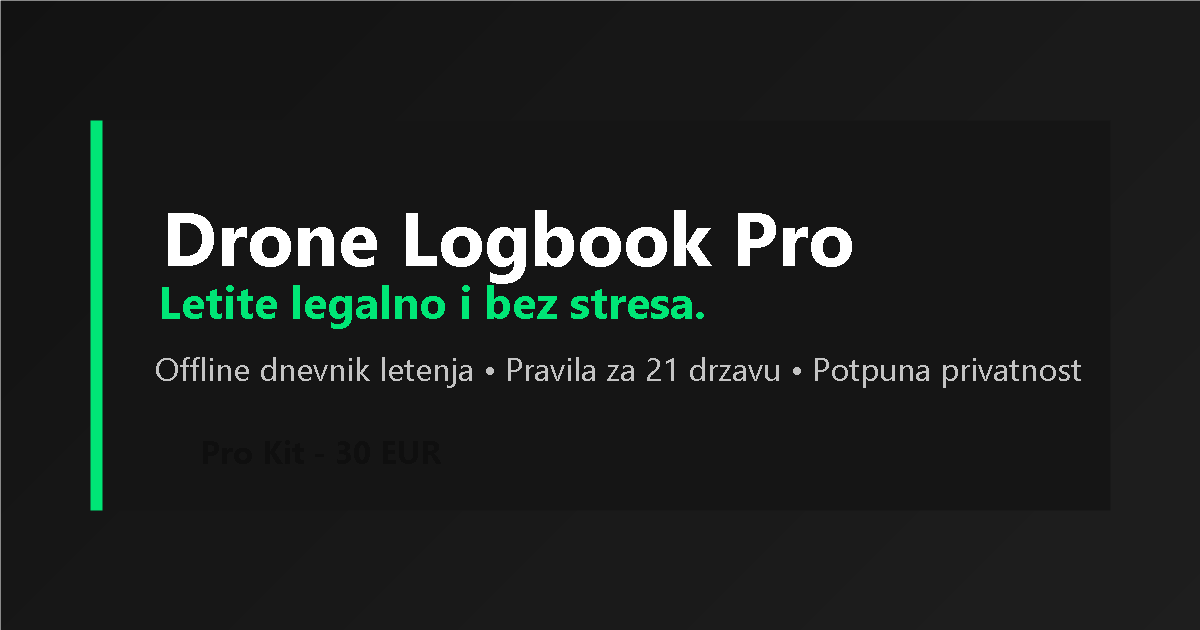
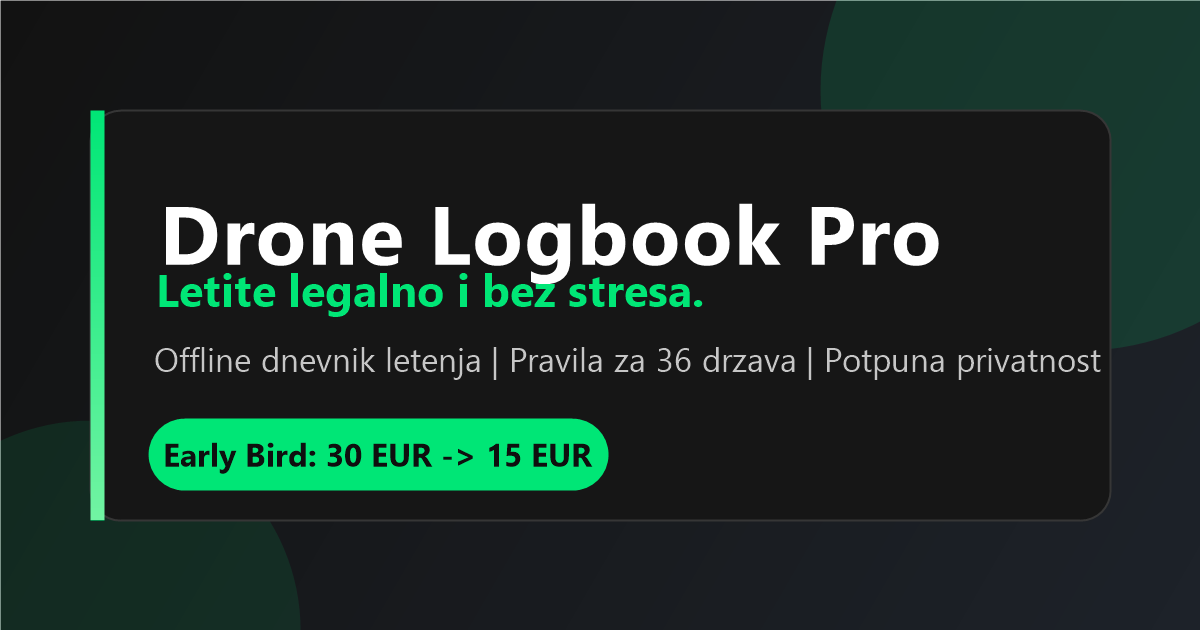
Polished landing page with 36 countries, gallery and early bird pricing

diff --git a/index.html b/index.html
@@ -3,7 +3,7 @@
 <head>
     <meta charset="UTF-8">
     <meta name="viewport" content="width=device-width, initial-scale=1.0">
-    <meta name="description" content="Drone Logbook Pro je osobni dnevnik letenja za pilote dronova: offline rad, pravila za 28 država i privatna pohrana na vlastitom Google Driveu.">
+    <meta name="description" content="Drone Logbook Pro je osobni dnevnik letenja za pilote dronova: offline rad, pravila za 36 država i privatna pohrana na vlastitom Google Driveu.">
     <meta name="robots" content="index, follow">
     <meta name="theme-color" content="#121212">
     <link rel="canonical" href="https://zrina1980-superuser.github.io/drone-logbook-pro/">
@@ -14,12 +14,23 @@
     <meta property="og:site_name" content="Drone Logbook Pro">
     <meta property="fb:app_id" content="1439374824024639">
     <meta property="og:title" content="Drone Logbook Pro | Tvoj osobni dnevnik letenja">
-    <meta property="og:description" content="Letite legalno i bez stresa. Offline dnevnik letenja, pravila za 28 država i puna kontrola podataka na vašem Google Driveu.">
+    <meta property="og:description" content="Letite legalno i bez stresa. Offline dnevnik letenja, pravila za 36 država i puna kontrola podataka na vašem Google Driveu.">
     <meta property="og:url" content="https://zrina1980-superuser.github.io/drone-logbook-pro/">
     <meta property="og:image" content="https://zrina1980-superuser.github.io/drone-logbook-pro/og-image.png">
+    <meta property="og:image:secure_url" content="https://zrina1980-superuser.github.io/drone-logbook-pro/og-image.png">
     <meta property="og:image:type" content="image/png">
     <meta property="og:image:width" content="1200">
     <meta property="og:image:height" content="630">
+    <meta property="og:image:alt" content="Drone Logbook Pro landing page preview">
+
+    <meta name="twitter:card" content="summary_large_image">
+    <meta name="twitter:title" content="Drone Logbook Pro | Tvoj osobni dnevnik letenja">
+    <meta name="twitter:description" content="Offline dnevnik letenja za pilote dronova s pravilima za 36 država.">
+    <meta name="twitter:image" content="https://zrina1980-superuser.github.io/drone-logbook-pro/og-image.png">
+    <meta name="twitter:image:alt" content="Drone Logbook Pro landing page preview">
+
+    <link rel="icon" type="image/svg+xml" href="favicon.svg">
+    <link rel="shortcut icon" type="image/svg+xml" href="favicon.svg">
 
     <script src="https://cdn.tailwindcss.com"></script>
     <script>
@@ -45,7 +56,7 @@
         </h1>
         <p class="text-lg md:text-xl text-gray-400 mb-10 max-w-2xl mx-auto">
             Prva i jedina aplikacija za domaće dronaše koja živi isključivo na vašem Google Driveu.
-            Bilježite letove i servise jednim klikom, radite u potpunosti offline i nosite zakone za 28 država u džepu!
+            Bilježite letove jednim klikom, radite u potpunosti offline i nosite zakone za čak 36 država u džepu!
         </p>
         <a href="#kupi" class="bg-primary text-black font-bold py-4 px-8 rounded-full text-lg hover:bg-green-500 transition duration-300 shadow-[0_0_15px_rgba(0,230,118,0.5)] inline-block">
             Preuzmi svoj Pro Kit (Early Bird Akcija)
@@ -53,14 +64,26 @@
     </header>
 
     <section class="container mx-auto px-6 py-10">
-        <h2 class="text-3xl font-bold text-center text-white mb-12">Zavirite u aplikaciju</h2>
-        <div class="grid grid-cols-2 md:grid-cols-3 gap-6 justify-items-center">
-            <img src="pocetni-sa-linkovima-na-dokumente.jpeg" alt="Početni zaslon i linkovi na dokumente" class="rounded-2xl border-2 border-gray-700 shadow-xl max-h-[450px] object-cover hover:border-primary transition">
-            <img src="unos-novog-leta.jpeg" alt="Unos novog leta" class="rounded-2xl border-2 border-gray-700 shadow-xl max-h-[450px] object-cover hover:border-primary transition">
-            <img src="log-svih-letova.jpeg" alt="Log svih letova" class="rounded-2xl border-2 border-gray-700 shadow-xl max-h-[450px] object-cover hover:border-primary transition">
-            <img src="unos-servisiranja.jpeg" alt="Unos servisiranja" class="rounded-2xl border-2 border-gray-700 shadow-xl max-h-[450px] object-cover hover:border-primary transition">
-            <img src="trazenje-pravila-drzava.jpeg" alt="Traženje pravila država" class="rounded-2xl border-2 border-gray-700 shadow-xl max-h-[450px] object-cover hover:border-primary transition">
-            <img src="prikaz-odabrane-drzave.jpeg" alt="Prikaz odabrane države" class="rounded-2xl border-2 border-gray-700 shadow-xl max-h-[450px] object-cover hover:border-primary transition">
+        <h2 class="text-3xl font-bold text-center text-white mb-8">Zavirite ispod haube</h2>
+        <div class="max-w-5xl mx-auto grid grid-cols-2 md:grid-cols-3 gap-3 md:gap-4">
+            <button type="button" data-full="pocetni-sa-linkovima-na-dokumente.jpeg" data-caption="Početni zaslon s dokumentima" class="group overflow-hidden rounded-xl border border-gray-700 hover:border-primary transition">
+                <img src="pocetni-sa-linkovima-na-dokumente.jpeg" alt="Početni zaslon s dokumentima" class="h-28 md:h-40 w-full object-cover group-hover:scale-[1.03] transition duration-300">
+            </button>
+            <button type="button" data-full="unos-novog-leta.jpeg" data-caption="Brzi unos novog leta" class="group overflow-hidden rounded-xl border border-gray-700 hover:border-primary transition">
+                <img src="unos-novog-leta.jpeg" alt="Brzi unos novog leta" class="h-28 md:h-40 w-full object-cover group-hover:scale-[1.03] transition duration-300">
+            </button>
+            <button type="button" data-full="log-svih-letova.jpeg" data-caption="Digitalni logbook svih letova" class="group overflow-hidden rounded-xl border border-gray-700 hover:border-primary transition">
+                <img src="log-svih-letova.jpeg" alt="Digitalni logbook svih letova" class="h-28 md:h-40 w-full object-cover group-hover:scale-[1.03] transition duration-300">
+            </button>
+            <button type="button" data-full="unos-servisiranja.jpeg" data-caption="Evidencija servisa" class="group overflow-hidden rounded-xl border border-gray-700 hover:border-primary transition">
+                <img src="unos-servisiranja.jpeg" alt="Evidencija servisa" class="h-28 md:h-40 w-full object-cover group-hover:scale-[1.03] transition duration-300">
+            </button>
+            <button type="button" data-full="trazenje-pravila-drzava.jpeg" data-caption="Baza i pretraga zakona" class="group overflow-hidden rounded-xl border border-gray-700 hover:border-primary transition">
+                <img src="trazenje-pravila-drzava.jpeg" alt="Baza i pretraga zakona" class="h-28 md:h-40 w-full object-cover group-hover:scale-[1.03] transition duration-300">
+            </button>
+            <button type="button" data-full="prikaz-odabrane-drzave.jpeg" data-caption="Detaljna pravila za svaku državu" class="group overflow-hidden rounded-xl border border-gray-700 hover:border-primary transition">
+                <img src="prikaz-odabrane-drzave.jpeg" alt="Detaljna pravila za svaku državu" class="h-28 md:h-40 w-full object-cover group-hover:scale-[1.03] transition duration-300">
+            </button>
         </div>
     </section>
 
@@ -69,17 +92,17 @@
             <div class="bg-surface p-8 rounded-2xl border border-gray-800">
                 <div class="text-4xl mb-4">📡</div>
                 <h3 class="text-xl font-bold text-white mb-3">Pametni Offline Radar</h3>
-                <p class="text-gray-400">Letite negdje gdje nema signala? Nema problema. Sustav uredno sprema vaše letove i servise u memoriju mobitela te ih automatski prebacuje u bazu čim ulovite mrežu.</p>
+                <p class="text-gray-400">Letite na Velebitu gdje nema signala? Nema problema. Aplikacija uredno sprema sve letove i servise u memoriju mobitela te ih automatski prebacuje u bazu čim ulovite 4G mrežu.</p>
             </div>
             <div class="bg-surface p-8 rounded-2xl border border-gray-800 border-l-4 border-l-primary">
                 <div class="text-4xl mb-4">🌍</div>
-                <h3 class="text-xl font-bold text-white mb-3">Pravila za 28 Država</h3>
-                <p class="text-gray-400">Pametna tražilica s provjerenim direktnim linkovima na portale, aplikacije i zakone. Od Hrvatske, BiH, Srbije, preko EU, sve do Tajlanda i Japana. Zaboravite na kazne.</p>
+                <h3 class="text-xl font-bold text-white mb-3">Baza s 36 Država</h3>
+                <p class="text-gray-400">Pametna tražilica s provjerenim direktnim linkovima na nacionalne portale, EASA regulative i aplikacije. Od Hrvatske, Bosne i Srbije, preko cijele EU, pa sve do Tajlanda. Zaboravite na ogromne kazne!</p>
             </div>
             <div class="bg-surface p-8 rounded-2xl border border-gray-800">
                 <div class="text-4xl mb-4">🔒</div>
                 <h3 class="text-xl font-bold text-white mb-3">100% Vaša Privatnost</h3>
-                <p class="text-gray-400">Ovo nije tuđa aplikacija s mjesečnim pretplatama. Cijeli sustav (baza u Google Sheetsu i aplikacija) instalira se i vrti isključivo na vašem osobnom Google računu!</p>
+                <p class="text-gray-400">Ovo nije tuđa aplikacija. Nema mjesečnih pretplata i mutnih servera. Cijeli sustav (baza u Google Sheetsu i web aplikacija) instalira se i vrti isključivo na vašem osobnom Google računu!</p>
             </div>
         </div>
     </section>
@@ -90,15 +113,15 @@
             <div class="grid md:grid-cols-3 gap-8 text-left">
                 <div class="p-6">
                     <span class="text-primary font-bold text-xl mb-2 block">Korak 1: Preuzimanje</span>
-                    <p class="text-gray-400">Nakon uplate, platforma vam na e-mail istog trena automatski šalje ZIP datoteku s aplikacijom i priručnikom.</p>
+                    <p class="text-gray-400">Odmah nakon jednokratne uplate, sustav vam automatski šalje ZIP datoteku s vašom aplikacijom i priručnikom.</p>
                 </div>
                 <div class="p-6">
                     <span class="text-primary font-bold text-xl mb-2 block">Korak 2: Instalacija koda</span>
-                    <p class="text-gray-400">Pratite kratki video tutorijal (3 min). Samo iskopirate gotove datoteke u svoj besplatni Google Apps Script račun.</p>
+                    <p class="text-gray-400">Pratite kratki video tutorijal (traje 3 minute). Samo iskopirate dobivene datoteke u svoj besplatni Google Drive (Apps Script).</p>
                 </div>
                 <div class="p-6">
                     <span class="text-primary font-bold text-xl mb-2 block">Korak 3: Postavke pilota</span>
-                    <p class="text-gray-400">Dodajte aplikaciju na početni zaslon svog mobitela, unesite svoj Pilot ID, registraciju drona i spremni ste!</p>
+                    <p class="text-gray-400">Dodajte aplikaciju na početni zaslon svog mobitela, unesite svoj vlastiti Pilot ID i serijski broj drona - i spremni ste za legalan let!</p>
                 </div>
             </div>
         </div>
@@ -108,32 +131,82 @@
         <div class="bg-surface border border-primary p-10 rounded-3xl max-w-3xl mx-auto shadow-[0_0_30px_rgba(0,230,118,0.1)]">
             <h2 class="text-3xl font-bold text-white mb-2">Drone Logbook Pro Kit</h2>
 
-            <div class="flex items-center justify-center gap-4 mb-6">
+            <div class="flex items-center justify-center gap-4 mb-6 mt-4">
                 <span class="text-gray-500 line-through text-2xl">30,00 €</span>
-                <span class="text-4xl text-primary font-extrabold shadow-primary">14,90 €</span>
+                <span class="text-4xl text-primary font-extrabold shadow-primary">15,00 €</span>
             </div>
-            <p class="text-primary font-bold mb-6 tracking-wider uppercase">🔥 Early Bird Akcija 🔥</p>
+            <p class="text-primary font-bold mb-6 tracking-wider uppercase">🔥 Early Bird Akcija - limitirano vrijeme 🔥</p>
 
-            <p class="text-gray-400 mb-8">U paketu dobivate potpuni web sustav (frontend + backend skripte), ugrađenu bazu za 28 zemalja, <i>offline</i> sinkronizaciju i detaljne video upute za instalaciju.</p>
+            <p class="text-gray-400 mb-8">U paketu dobivate gotove skripte (baza, frontend, backend), predefiniranu bazu zakona za čak 36 država i detaljan video vodič za instalaciju.</p>
 
             <div class="flex flex-col md:flex-row justify-center gap-4">
-                <a href="#tvoj-kofi-link" class="bg-primary text-black font-bold py-3 px-6 rounded-lg hover:bg-green-500 transition shadow-lg text-center flex items-center justify-center gap-2">
-                    ☕ Kupi putem Ko-fi (Kartica)
+                <a href="#tvoj-revolut-link" class="bg-white text-black font-bold py-3 px-6 rounded-lg hover:bg-gray-200 transition">
+                    💳 Plaćanje preko Revoluta
                 </a>
-                <a href="#tvoj-bmc-link" class="bg-yellow-400 text-black font-bold py-3 px-6 rounded-lg hover:bg-yellow-500 transition shadow-lg text-center flex items-center justify-center gap-2">
-                    🍺 Buy Me A Coffee (Kartica)
-                </a>
-                <a href="#tvoj-revolut-link" class="bg-white text-black font-bold py-3 px-6 rounded-lg hover:bg-gray-200 transition shadow-lg text-center flex items-center justify-center gap-2">
-                    💳 Plati preko Revoluta
+                <a href="#tvoj-kofi-link" class="bg-primary text-black font-bold py-3 px-6 rounded-lg hover:bg-green-500 transition">
+                    ☕ Plaćanje karticom (Ko-fi)
                 </a>
             </div>
-            <p class="text-xs text-gray-500 mt-6">* Aplikacija zahtijeva isključivo besplatan Google račun (@gmail.com). Nema nikakvih dodatnih ni skrivenih troškova.</p>
+            <p class="text-sm text-gray-500 mt-6">* Aplikacija zahtijeva besplatan Google račun (@gmail.com). Nema nikakvih dodatnih ni skrivenih troškova.</p>
         </div>
     </section>
 
     <footer class="text-center py-8 text-gray-600 text-sm border-t border-gray-800">
-        <p>Projekt razvio letač za letače. Letite legalno, letite odgovorno.</p>
+        <p>Projekt razvijen od strane pilota za pilote. Letite odgovorno.</p>
     </footer>
+
+    <div id="lightbox" class="fixed inset-0 z-50 hidden items-center justify-center bg-black/85 p-4">
+        <button id="lightboxClose" type="button" class="absolute top-4 right-4 text-white text-4xl leading-none hover:text-primary" aria-label="Zatvori pregled">&times;</button>
+        <div class="max-w-5xl w-full text-center">
+            <img id="lightboxImage" src="" alt="" class="max-h-[82vh] mx-auto rounded-2xl border border-gray-700 shadow-2xl">
+            <p id="lightboxCaption" class="text-gray-300 mt-4 text-sm md:text-base"></p>
+        </div>
+    </div>
+
+    <script>
+        const lightbox = document.getElementById('lightbox');
+        const lightboxImage = document.getElementById('lightboxImage');
+        const lightboxCaption = document.getElementById('lightboxCaption');
+        const lightboxClose = document.getElementById('lightboxClose');
+        const thumbnails = document.querySelectorAll('[data-full]');
+
+        const openLightbox = (src, caption) => {
+            lightboxImage.src = src;
+            lightboxImage.alt = caption;
+            lightboxCaption.textContent = caption;
+            lightbox.classList.remove('hidden');
+            lightbox.classList.add('flex');
+            document.body.classList.add('overflow-hidden');
+        };
+
+        const closeLightbox = () => {
+            lightbox.classList.add('hidden');
+            lightbox.classList.remove('flex');
+            lightboxImage.src = '';
+            lightboxImage.alt = '';
+            document.body.classList.remove('overflow-hidden');
+        };
+
+        thumbnails.forEach((thumb) => {
+            thumb.addEventListener('click', () => {
+                openLightbox(thumb.dataset.full, thumb.dataset.caption || 'Pregled slike');
+            });
+        });
+
+        lightboxClose.addEventListener('click', closeLightbox);
+
+        lightbox.addEventListener('click', (event) => {
+            if (event.target === lightbox) {
+                closeLightbox();
+            }
+        });
+
+        document.addEventListener('keydown', (event) => {
+            if (event.key === 'Escape' && !lightbox.classList.contains('hidden')) {
+                closeLightbox();
+            }
+        });
+    </script>
 
 </body>
 </html>
